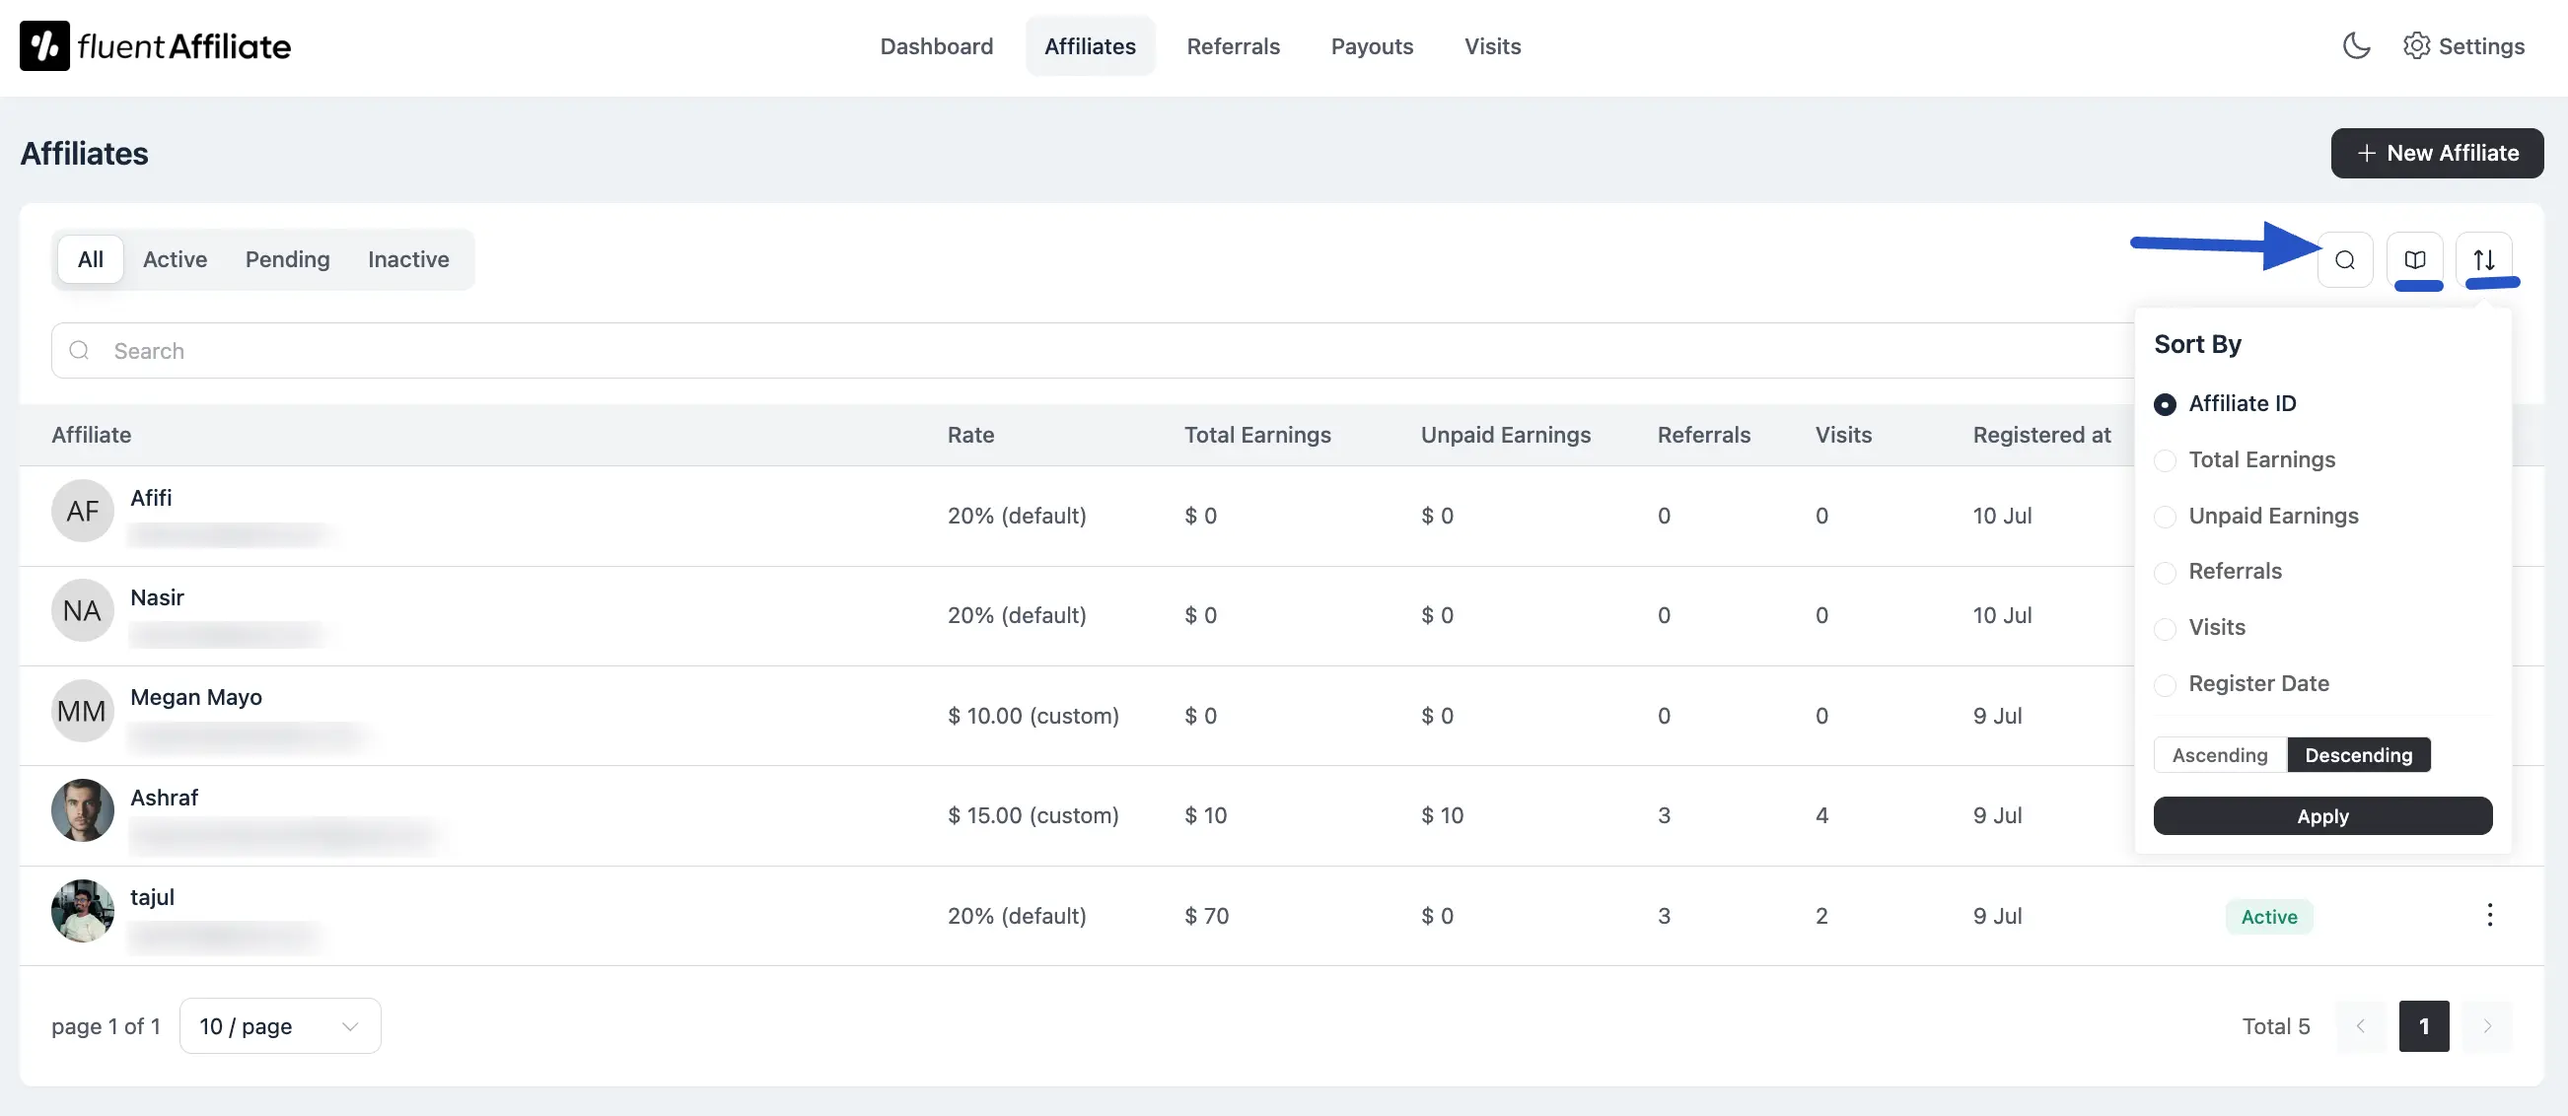
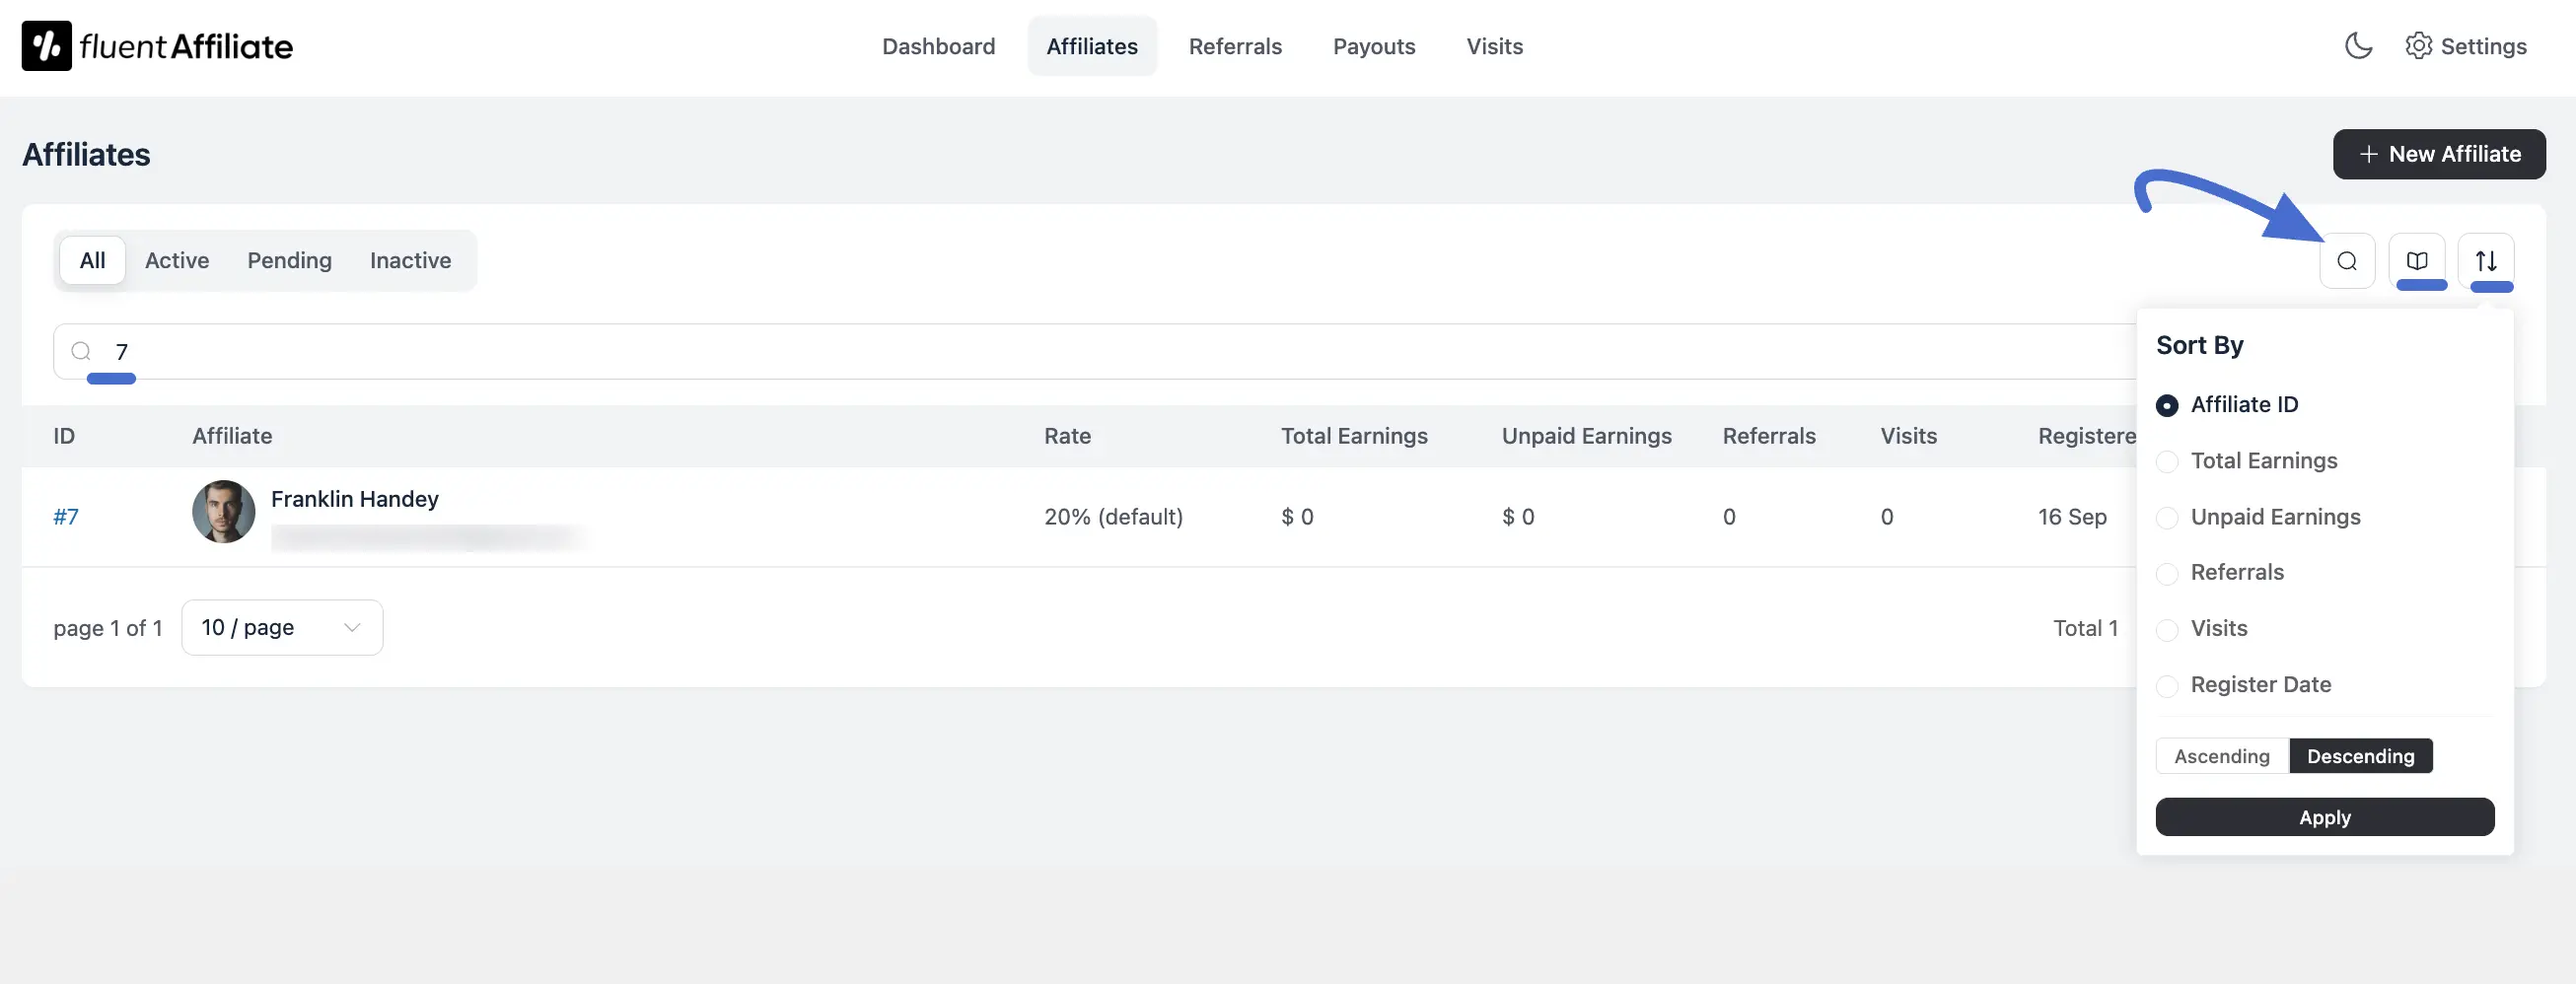
Managing Affiliates doc update
Added: Affiliate ID in Affiliates Listing
Added: Affiliate ID Support in Affiliate Searching
Added: Pagination Jump-to-Page Option,
Images changes

diff --git a/guide/admin-portal/managing-affiliates.md b/guide/admin-portal/managing-affiliates.md
@@ -25,6 +25,7 @@ Just below the page title, you'll see filter tabs that let you quickly segment y
 ### Affiliates Details Table
 This is the heart of the page, where every affiliate is listed with their key performance details. This gives you a clear and immediate picture of how each partner is doing. The columns include:
 
+* **ID:** A unique number assigned to each affiliate for easy identification.
 * **Affiliate:** The name and email address of the affiliate. 
 * **Rate:** Their specific commission rate. 
 * **Total Earnings:** The total commissions they have ever earned. 
@@ -47,14 +48,14 @@ At the end of each affiliate's row, you'll see a three-dot menu. Clicking this o
 
 To the top-right of the table, you'll find icons to help you organize your view:
 
-* **Search Bar:** Quickly locate affiliates by typing their name or email address.
+* **Search Bar:** Quickly find a specific affiliate by typing their name, email address, or Affiliate ID.
 * **Column Selector:** Customize your table view using the **Columns** button. Check or uncheck columns based on what info you want to display.
 * **Sort Options:** Sort affiliates by **ID**, **Total Earnings**, **Unpaid Earnings**, **Referrals**, **Visits**, or **Registration Date**. You can also choose between ascending or descending order, then click **Apply** to update.
 
 ![Affiliate Search and Sort Tools](/images/admin-portal/managing-affiliates/search-and-sort-tools.webp)
 
 ### Pagination Buttons  
-If you have a large number of affiliates, the controls at the bottom of the page help you navigate your list easily. You can set the number of **affiliates to show per page** and use the **arrow** buttons to move between pages. 
+If you have a large number of affiliates, the controls at the bottom of the page help you navigate your list easily. You can set the number of **affiliates to show per page** and use the **arrow** buttons to move between pages. You can also type a page number directly into the box and hit Enter to jump straight to that page.
 
 ### Add a New Affiliate
 
